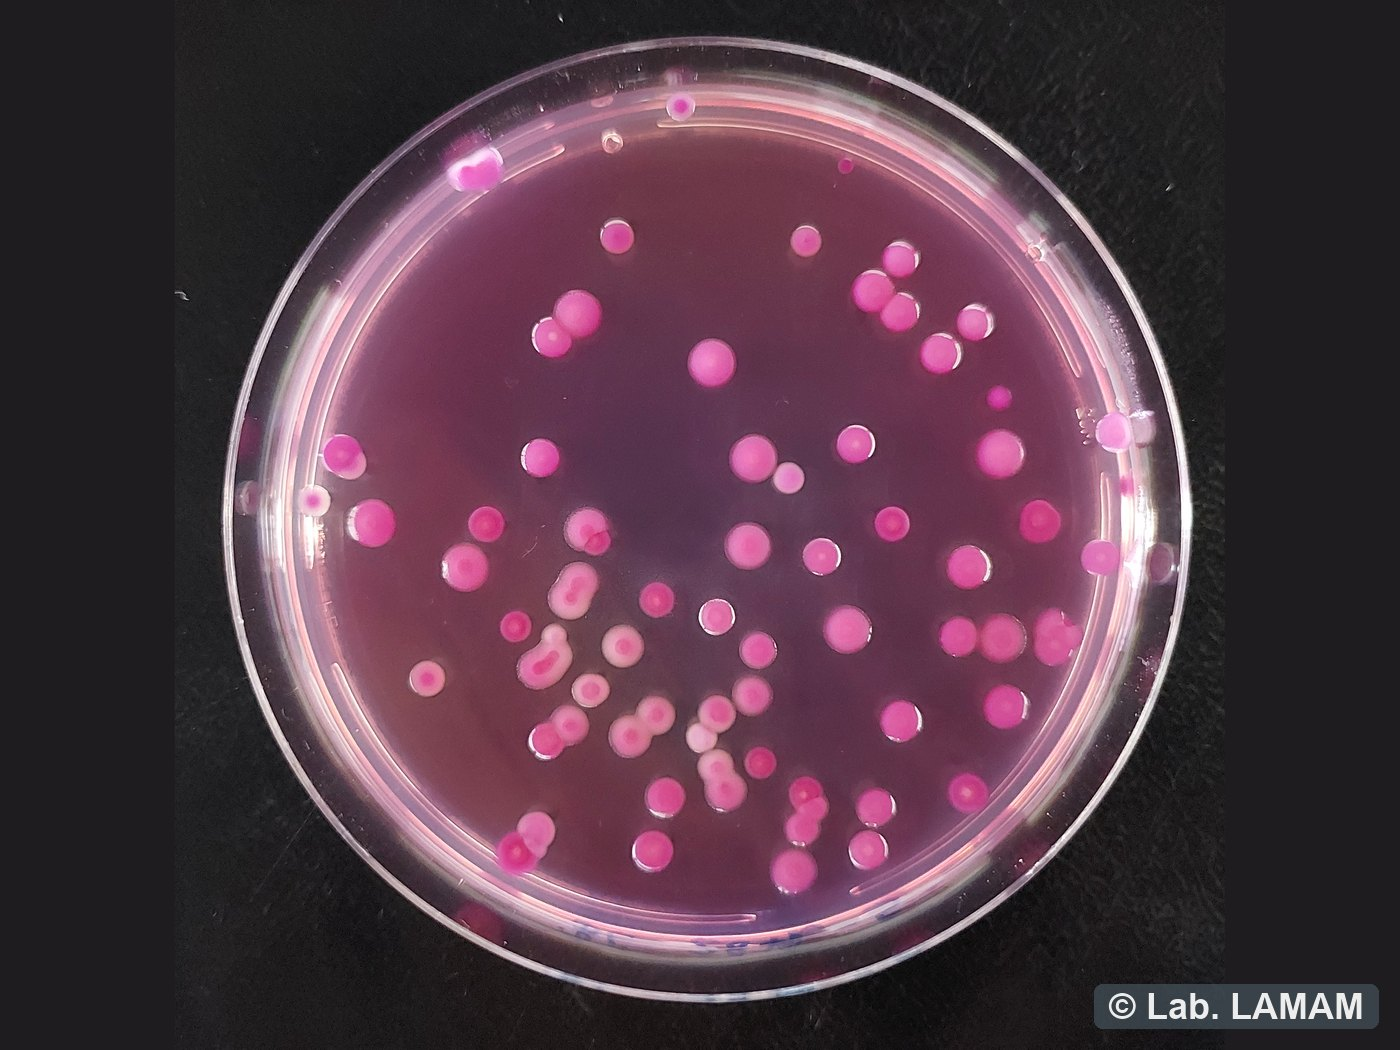
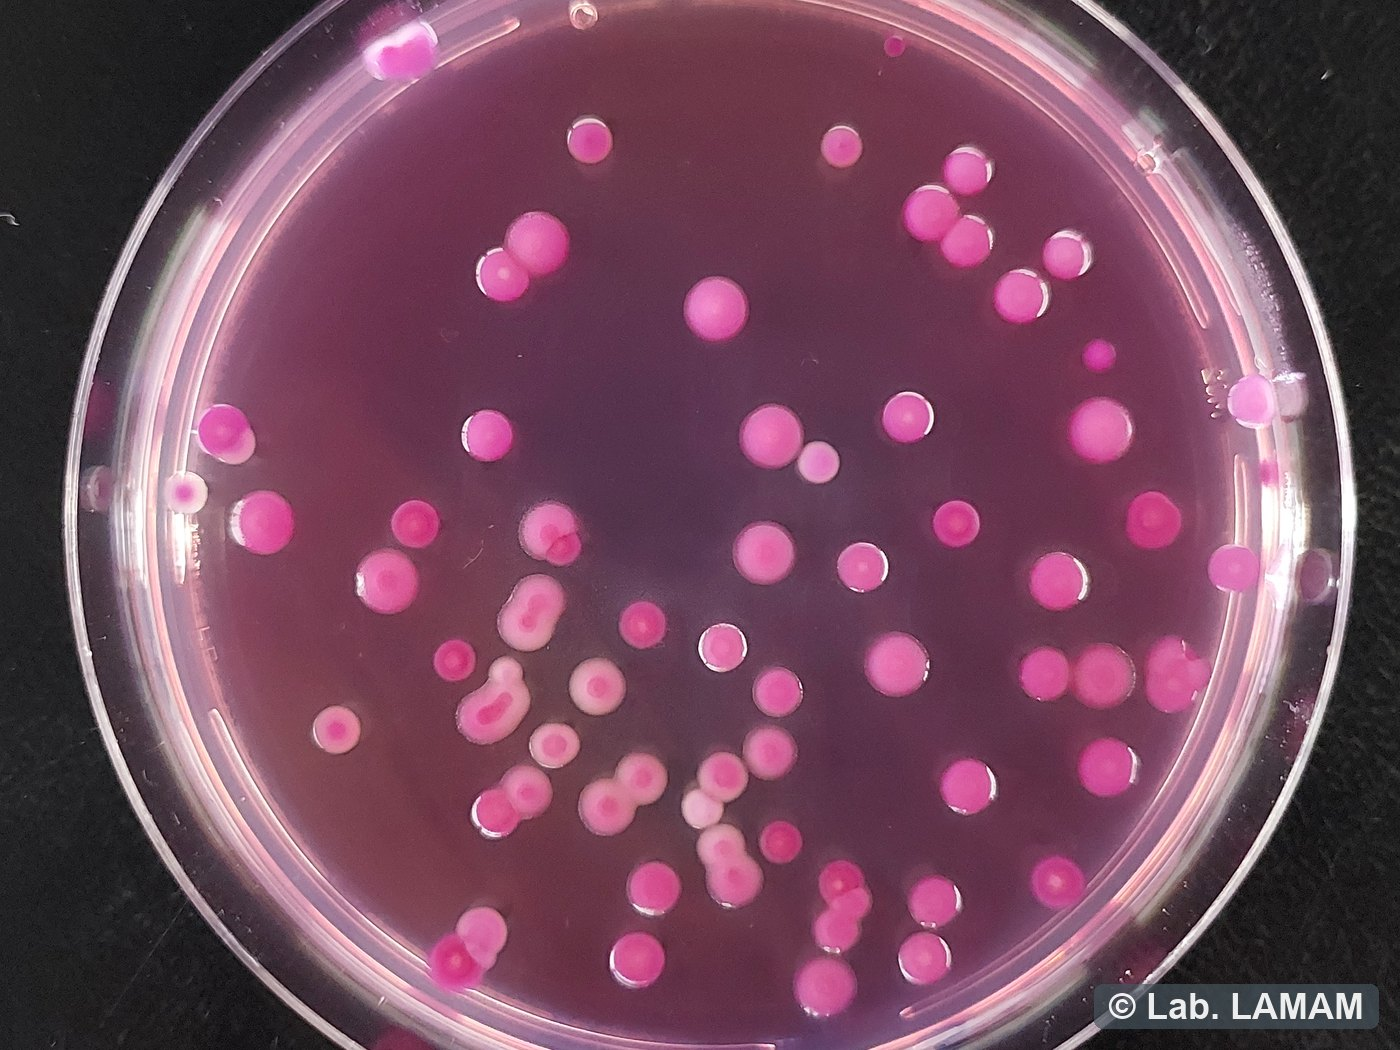
Placas: mesmo corte da CQ On Farm (placa preenche o quadro 4:3)
Placas resinadas e contaminantes tinham ficado com barras pretas (padding).
Refeitas com recorte central 4:3 (disco preenche o quadro, topo/rodape
aparados), padronizando com CQ On Farm/broca. Cache-bust ?v atualizado.

diff --git a/servicos/contaminantes.html b/servicos/contaminantes.html
@@ -48,7 +48,7 @@
         <a class="btn btn-soft" href="../index.html#servicos">&larr; Ver todos</a>
       </div>
     </div>
-    <div class="svc-hero-img"><img src="../img/svc-contaminantes.jpg?v=2" alt="Placa com colônias de microrganismos contaminantes em meio de cultura" loading="lazy"></div>
+    <div class="svc-hero-img"><img src="../img/svc-contaminantes.jpg?v=3" alt="Placa com colônias de microrganismos contaminantes em meio de cultura" loading="lazy"></div>
   </div>
 </section>
 

diff --git a/servicos/placas-resinadas.html b/servicos/placas-resinadas.html
@@ -48,7 +48,7 @@
         <a class="btn btn-soft" href="../index.html#servicos">&larr; Ver todos</a>
       </div>
     </div>
-    <div class="svc-hero-img"><img src="../img/svc-placas-resinadas.jpg?v=1" alt="Placa de cultura com teste de antagonismo entre fungos" loading="lazy"></div>
+    <div class="svc-hero-img"><img src="../img/svc-placas-resinadas.jpg?v=2" alt="Placa de cultura com teste de antagonismo entre fungos" loading="lazy"></div>
   </div>
 </section>
 
